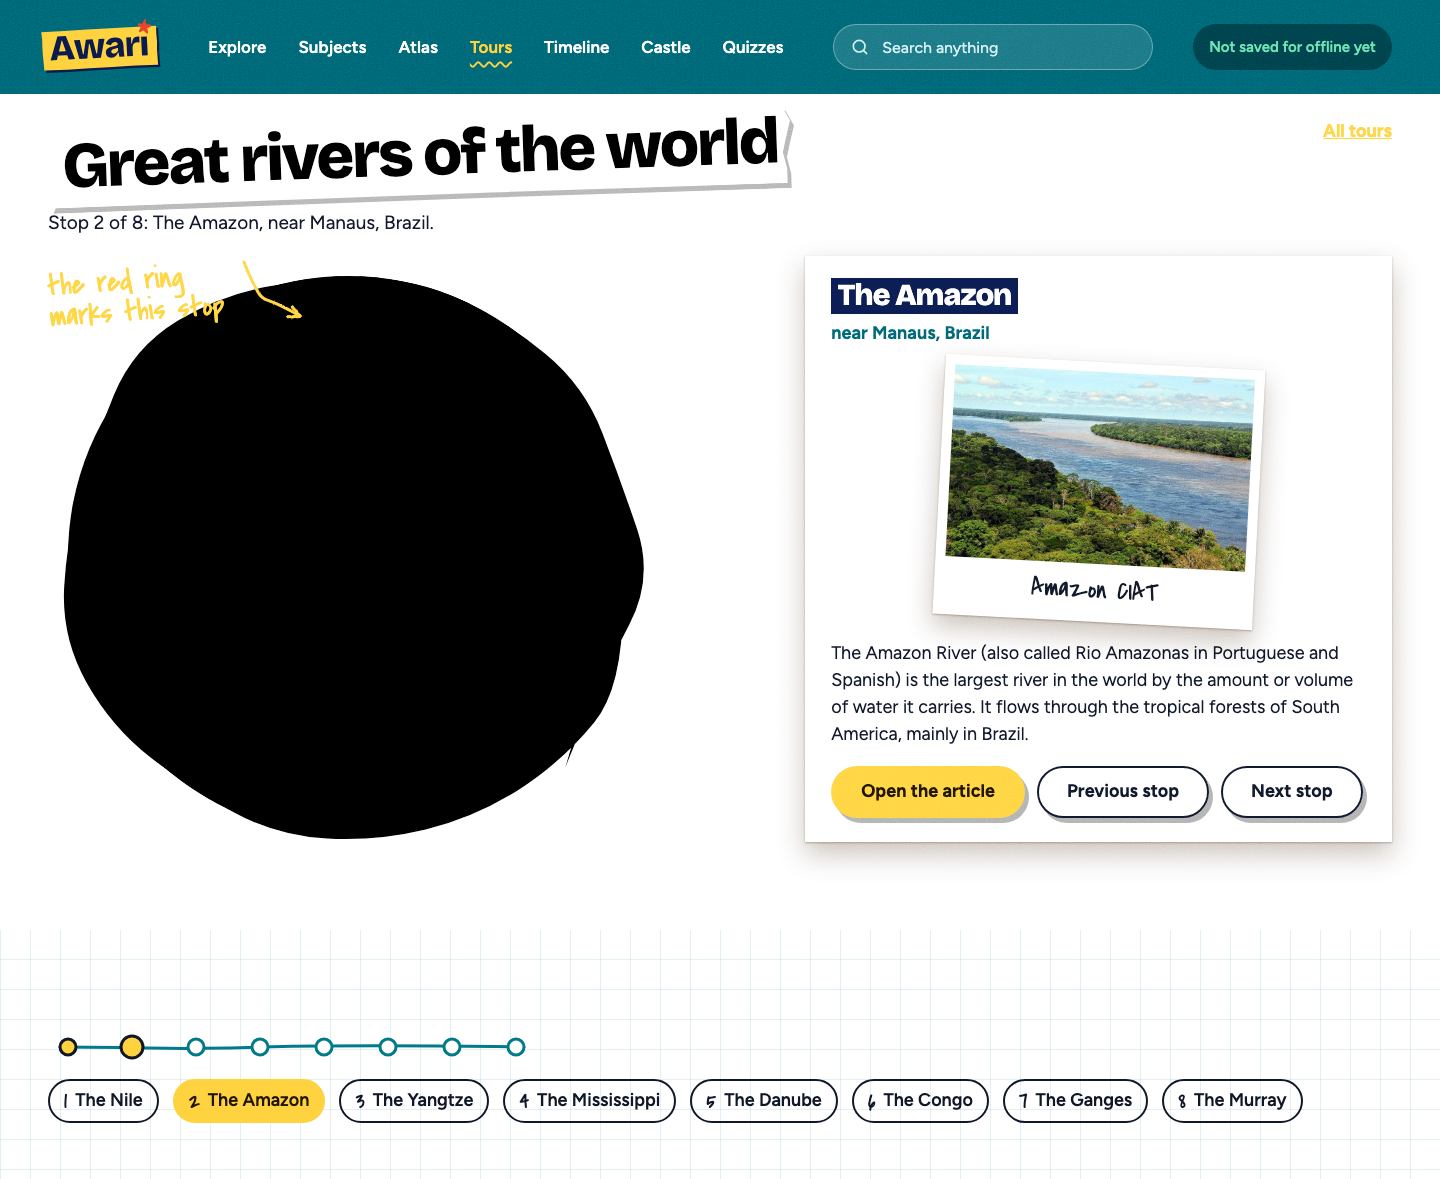
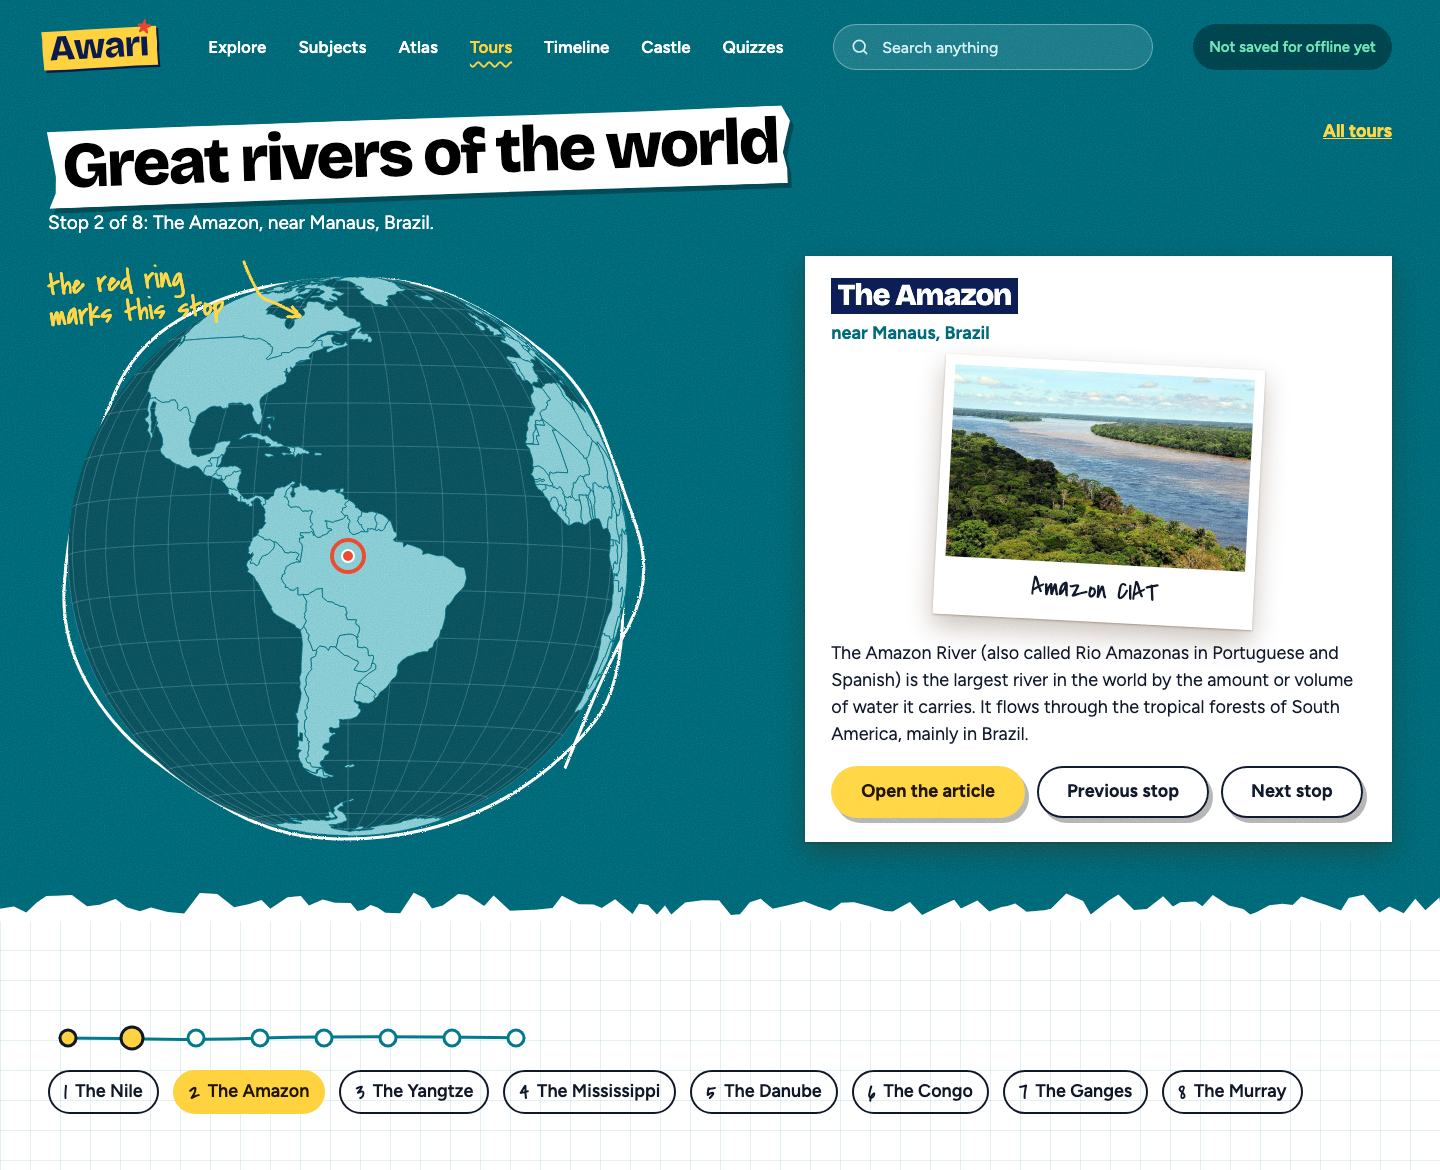
21-review-2 2: tour globe takes its fills from design tokens; Property 1; all 42 tour stops opened in a browser

diff --git a/src/features/atlas/globeStyle.property.test.ts b/src/features/atlas/globeStyle.property.test.ts
@@ -1,0 +1,58 @@
+/**
+ * 21-review-2 Req 1. The tour page once drew the globe as a solid black
+ * shape: `atlas.css` was only pulled in by the Atlas route, so opening
+ * `/tours/:id` directly left every `fill` at the SVG default. Two things
+ * keep that from coming back: the globe's sea and land fills are named
+ * design tokens (so a missing token is a visible teal/paper mismatch, not
+ * black), and `Globe.tsx` imports its own stylesheet, so any screen that
+ * renders a globe gets it.
+ */
+import { readFileSync } from 'node:fs';
+import fc from 'fast-check';
+import { describe, expect, it } from 'vitest';
+
+const atlasCss = readFileSync('src/features/atlas/atlas.css', 'utf8');
+const tokensCss = readFileSync('src/design/tokens.css', 'utf8');
+const globeSource = readFileSync('src/features/atlas/Globe.tsx', 'utf8');
+
+/** The `fill` or `stroke` declared for a selector in `atlas.css`. */
+function paintOf(selector: string, property: 'fill' | 'stroke'): string {
+  const block = new RegExp(`\\${selector}\\s*\\{([^}]*)\\}`).exec(atlasCss);
+  expect(block, `no rule for ${selector}`).not.toBeNull();
+  const found = new RegExp(`(?:^|;)\\s*${property}\\s*:\\s*([^;]+)`).exec(block?.[1] ?? '');
+  expect(found, `no ${property} for ${selector}`).not.toBeNull();
+  return (found?.[1] ?? '').trim();
+}
+
+/** The globe's painted parts and the token each must use. */
+const PAINTED = [
+  { selector: '.globe__ocean', property: 'fill' as const, token: '--globe-sea' },
+  { selector: '.globe__land', property: 'fill' as const, token: '--globe-land' },
+  { selector: '.globe__land:hover', property: 'fill' as const, token: '--globe-land-lit' },
+  { selector: '.globe__graticule', property: 'stroke' as const, token: '--globe-grid' },
+];
+
+describe('Globe styling (21-review-2)', () => {
+  it('Property 1: the globe’s sea and land take their fills from design tokens. _Req 1_', () => {
+    fc.assert(
+      fc.property(fc.constantFrom(...PAINTED), ({ selector, property, token }) => {
+        const paint = paintOf(selector, property);
+        // A token, not a raw colour: a hex, rgb() or colour name would let
+        // the shape render black when the stylesheet is missing entirely.
+        expect(paint).toBe(`var(${token})`);
+        expect(tokensCss).toMatch(new RegExp(`${token}\\s*:\\s*\\S`));
+      }),
+      { numRuns: PAINTED.length * 4 },
+    );
+  });
+
+  it('no globe paint is a raw colour. _Req 1_', () => {
+    for (const { selector, property } of PAINTED) {
+      expect(paintOf(selector, property)).not.toMatch(/#[0-9a-f]{3,8}|^rgb|^hsl/i);
+    }
+  });
+
+  it('the globe loads its own stylesheet, so every screen styles it. _Req 1_', () => {
+    expect(globeSource).toMatch(/import\s+'\.\/atlas\.css'/);
+  });
+});

diff --git a/scripts/check-tours.ts b/scripts/check-tours.ts
@@ -1,0 +1,54 @@
+/**
+ * Opens every stop of every tour in a real browser at 1440 and 390 px and
+ * checks the globe is painted from the design tokens (not the SVG default
+ * black), nothing overflows sideways, and the stop article opens.
+ *
+ * Usage: npx tsx scripts/check-tours.ts [baseUrl]   (the dev or preview server must be running)
+ */
+import { chromium } from 'playwright';
+import { TOURS } from '../src/features/tours/tours.ts';
+
+const base = process.argv[2] ?? 'http://127.0.0.1:5173';
+const problems: string[] = [];
+let opened = 0;
+
+const browser = await chromium.launch();
+for (const width of [1440, 390]) {
+  const page = await browser.newPage({ viewport: { width, height: 900 } });
+  for (const tour of TOURS) {
+    for (let i = 0; i < tour.stops.length; i++) {
+      const where = `${tour.id} stop ${i + 1} @${width}`;
+      await page.goto(`${base}/tours/${tour.id}?stop=${i + 1}`, { waitUntil: 'networkidle' });
+      const globe = page.locator('.globe__ocean').first();
+      try {
+        await globe.waitFor({ timeout: 10_000 });
+      } catch {
+        problems.push(`${where}: no globe drawn`);
+        continue;
+      }
+      const paint = await page.evaluate(
+        `({
+          sea: getComputedStyle(document.querySelector('.globe__ocean')).fill,
+          land: document.querySelector('.globe__land') ? getComputedStyle(document.querySelector('.globe__land')).fill : 'missing',
+        })`,
+      ) as { sea: string; land: string };
+      // rgb(0, 0, 0) is the SVG default: the stylesheet did not apply.
+      if (paint.sea === 'rgb(0, 0, 0)') problems.push(`${where}: sea is black`);
+      if (paint.land === 'rgb(0, 0, 0)') problems.push(`${where}: land is black`);
+      const overflow = await page.evaluate(() => document.documentElement.scrollWidth - window.innerWidth);
+      if (overflow > 0) problems.push(`${where}: ${overflow}px horizontal overflow`);
+      const stopBar = await page.getByText(new RegExp(`Stop ${i + 1} of ${tour.stops.length}`)).count();
+      if (stopBar === 0) problems.push(`${where}: no "Stop ${i + 1} of ${tour.stops.length}" label`);
+      opened++;
+    }
+  }
+  await page.close();
+}
+await browser.close();
+
+console.log(`Opened ${opened} tour stops.`);
+if (problems.length > 0) {
+  console.error(problems.join('\n'));
+  process.exit(1);
+}
+console.log('Every tour stop shows a painted globe, no overflow.');

diff --git a/src/design/tokens.css b/src/design/tokens.css
@@ -20,6 +20,13 @@
   --pin: #d92d20;
   --focus: #ffb703;
 
+  /* The globe's sea and land (04-atlas, 20-tours). Named so no screen can
+     fall back to an unstyled black shape (21-review-2 Req 1). */
+  --globe-sea: #0a4a55;
+  --globe-land: #7cc6cf;
+  --globe-land-lit: #b9e6ea;
+  --globe-grid: rgb(213 240 243 / 0.18);
+
   --font-head: 'Bricolage Grotesque', system-ui, sans-serif;
   --font-body: 'Figtree', system-ui, sans-serif;
   --font-hand: 'Covered By Your Grace', 'Segoe Print', 'Bradley Hand', cursive;

diff --git a/src/features/atlas/atlas.css b/src/features/atlas/atlas.css
@@ -111,24 +111,24 @@
 }
 
 .globe__ocean {
-  fill: #0a4a55;
+  fill: var(--globe-sea);
 }
 
 .globe__graticule {
   fill: none;
-  stroke: rgb(213 240 243 / 0.18);
+  stroke: var(--globe-grid);
   stroke-width: 1;
 }
 
 .globe__land {
-  fill: #7cc6cf;
+  fill: var(--globe-land);
   stroke: var(--teal);
   stroke-width: 0.8;
   cursor: pointer;
 }
 
 .globe__land:hover {
-  fill: #b9e6ea;
+  fill: var(--globe-land-lit);
 }
 
 .globe__land.is-discovered {

diff --git a/docs/kiro-log.md b/docs/kiro-log.md
@@ -125,3 +125,4 @@ running the command itself.
 | 2026-11-12 04:38 | 01-13 review pass (spec reread, tests run, screen opened) | 13-search review | src/features/search: 12 tests pass; /search?q=nile opened at 1440 and 390, no overflow; spec note: packs, read articles and Wikipedia online |
 | 2026-11-12 09:05 | gate run after packs rebuild | 20-tours / 09-offline | Rebuild dropped the Ancient Olympic Games page (pack capped at 30), so the wonders tour's fourth stop now opens the Seven Wonders overview; the offline check lost a stale Africa-only stamp step (the continent step covers it); submission-check and offline-check pass |
 | 2026-11-12 08:36 | spec | 21-review-2 1 | Wrote requirements (EARS), design with ten correctness properties and tasks for the fourteen screenshot defects in docs/review-2.md |
+| 2026-11-12 09:58 | npx vitest run src/features/atlas; npx tsx scripts/check-tours.ts (42 stops, real browser, 1440 and 390) | 21-review-2 2 | Globe sea, land, hover and grid fills are tokens; Globe imports its own CSS; Property 1; every stop of the three tours shows a painted globe with no overflow |

diff --git a/.kiro/specs/21-review-2/tasks.md b/.kiro/specs/21-review-2/tasks.md
@@ -5,7 +5,7 @@ own, logged in `docs/kiro-log.md`, and opened in a real browser at 1440 and
 390 px before it is ticked.
 
 - [ ] 1. Spec: requirements, design with properties, tasks.
-- [ ] 2. Tour globe takes its fills from design tokens; Property 1; every
+- [x] 2. Tour globe takes its fills from design tokens; Property 1; every
       tour and every stop opened. _Req 1_
 - [ ] 3. Finish 14-any-article task 5 (offline proof for a read Wikipedia
       article) and 19-home-world task 4. _Review item 2_
